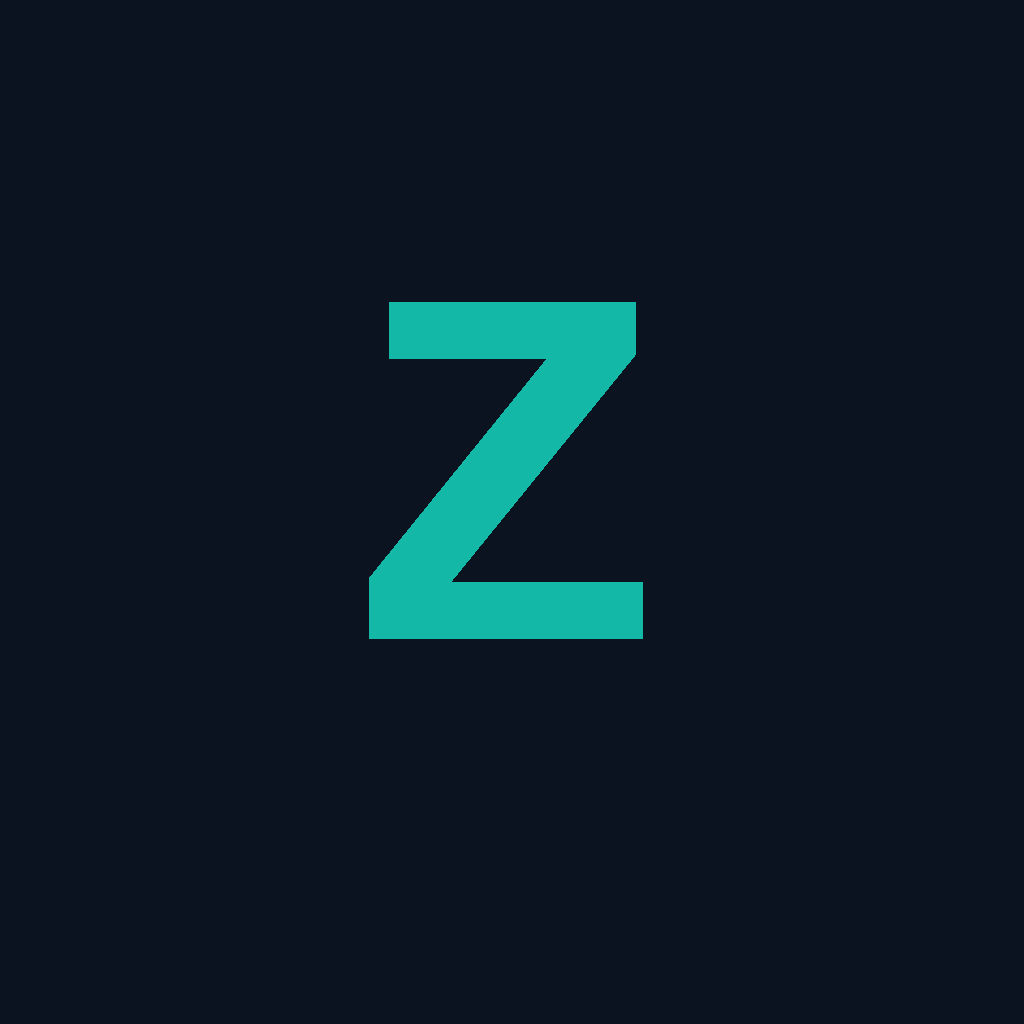
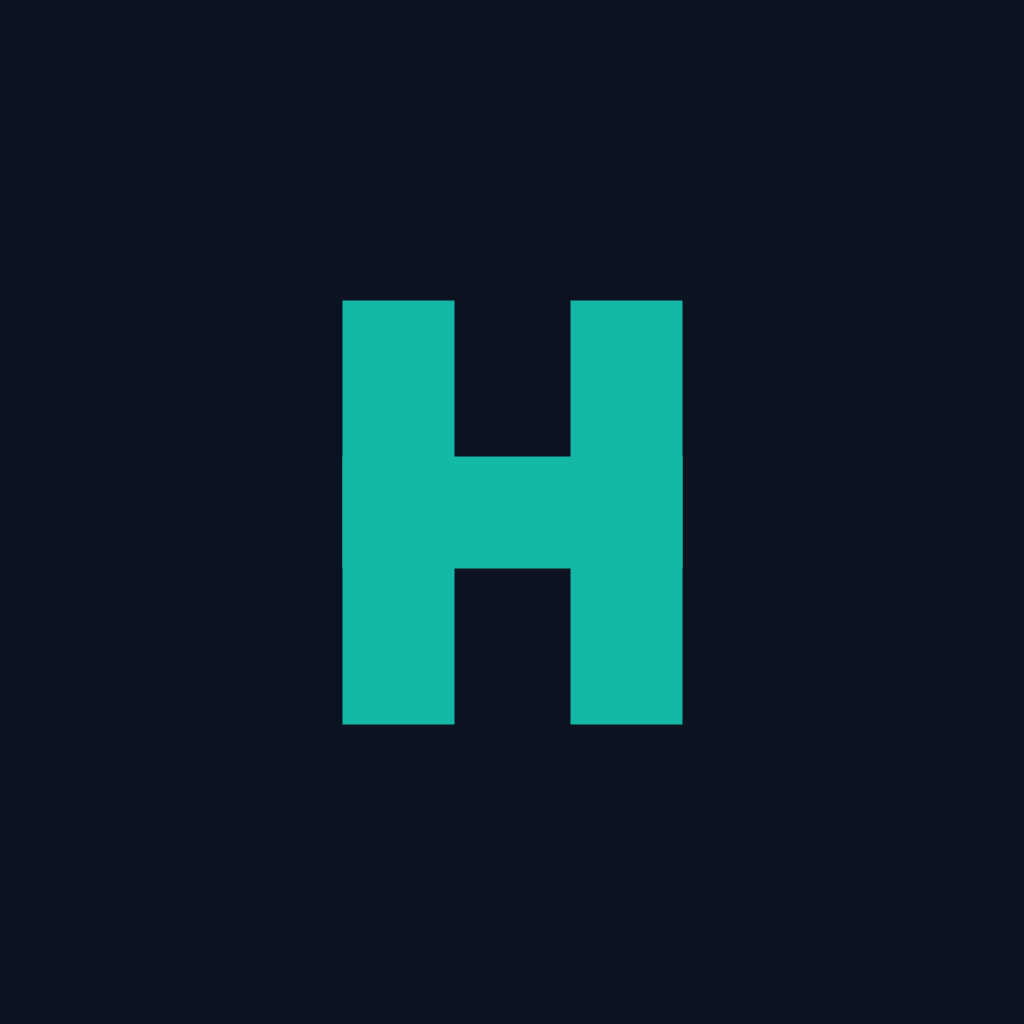
ff

Changed region(s): [[0.3125, 0.2812, 0.6875, 0.7188]]

diff --git a/apps/mobile/src/features/trade/TradeDeckFeedScreen.tsx b/apps/mobile/src/features/trade/TradeDeckFeedScreen.tsx
@@ -13,9 +13,9 @@ import type { TradeDeckItem } from './types';
 
 const now = () => new Date().toISOString();
 const mockTrades: TradeDeckItem[] = [
-  { id: 'mock-trade-1', ownerId: 'mock-owner-1', needId: 'mock-need-video', offerId: null, title: 'Need help editing a short launch video', description: 'Polish a 45-second launch video for social. I have the clips and copy, but need pacing, captions, and a clean export.', creditAmount: 25, status: 'active', isPublic: true, createdAt: now(), updatedAt: now(), expiresAt: new Date(Date.now() + 1000 * 60 * 60 * 36).toISOString(), closedAt: null, owner: { profile: { displayName: 'Mina' } } },
-  { id: 'mock-trade-2', ownerId: 'mock-owner-2', needId: null, offerId: 'mock-offer-copy', title: 'Offer: landing page copy review', description: 'I can review your hero section, headline, CTA, and first fold. You will get quick notes and 3 rewrite directions.', creditAmount: 15, status: 'active', isPublic: true, createdAt: now(), updatedAt: now(), expiresAt: new Date(Date.now() + 1000 * 60 * 60 * 72).toISOString(), closedAt: null, owner: { profile: { displayName: 'Noah' } } },
-  { id: 'mock-trade-3', ownerId: 'mock-owner-3', needId: null, offerId: null, title: 'Trade: database cleanup for brand feedback', description: 'Looking for someone to clean a small Airtable base. In return I can do brand naming feedback or pay fake test credits.', creditAmount: 40, status: 'active', isPublic: true, createdAt: now(), updatedAt: now(), expiresAt: null, closedAt: null, owner: { profile: { displayName: 'Ari' } } },
+  { id: 'mock-trade-1', ownerId: 'mock-owner-1', needId: 'mock-need-video', offerId: null, title: 'Need help editing a short launch video', description: 'Polish a 45-second launch video for social. I have the clips and copy, but need pacing, captions, and a clean export.', creditAmount: 25, status: 'active', isPublic: true, createdAt: now(), updatedAt: now(), expiresAt: new Date(Date.now() + 1000 * 60 * 60 * 36).toISOString(), closedAt: null, owner: { id: 'mock-owner-1', profile: { displayName: 'Mina' } } },
+  { id: 'mock-trade-2', ownerId: 'mock-owner-2', needId: null, offerId: 'mock-offer-copy', title: 'Offer: landing page copy review', description: 'I can review your hero section, headline, CTA, and first fold. You will get quick notes and 3 rewrite directions.', creditAmount: 15, status: 'active', isPublic: true, createdAt: now(), updatedAt: now(), expiresAt: new Date(Date.now() + 1000 * 60 * 60 * 72).toISOString(), closedAt: null, owner: { id: 'mock-owner-2', profile: { displayName: 'Noah' } } },
+  { id: 'mock-trade-3', ownerId: 'mock-owner-3', needId: null, offerId: null, title: 'Trade: database cleanup for brand feedback', description: 'Looking for someone to clean a small Airtable base. In return I can do brand naming feedback or pay fake test credits.', creditAmount: 40, status: 'active', isPublic: true, createdAt: now(), updatedAt: now(), expiresAt: null, closedAt: null, owner: { id: 'mock-owner-3', profile: { displayName: 'Ari' } } },
 ];
 
 type FeedResponse = { trades: TradeDeckItem[] };

diff --git a/apps/mobile/src/env.d.ts b/apps/mobile/src/env.d.ts
@@ -1,5 +1,8 @@
 declare const process: {
   env: {
     EXPO_PUBLIC_API_URL?: string;
+    EXPO_PUBLIC_GOOGLE_WEB_CLIENT_ID?: string;
+    EXPO_PUBLIC_GOOGLE_IOS_CLIENT_ID?: string;
+    EXPO_PUBLIC_GOOGLE_ANDROID_CLIENT_ID?: string;
   };
 };

diff --git a/apps/web/src/app/layout.tsx b/apps/web/src/app/layout.tsx
@@ -14,7 +14,7 @@ export default function RootLayout({ children }: { children: ReactNode }) {
         <main className="shell">
           <nav className="nav">
             <Link href="/" className="brand" aria-label="Hellowhen home">
-              <span className="brand-mark">Z</span>
+              <span className="brand-mark">H</span>
               <span>Hellowhen</span>
             </Link>
             <div className="nav-links">